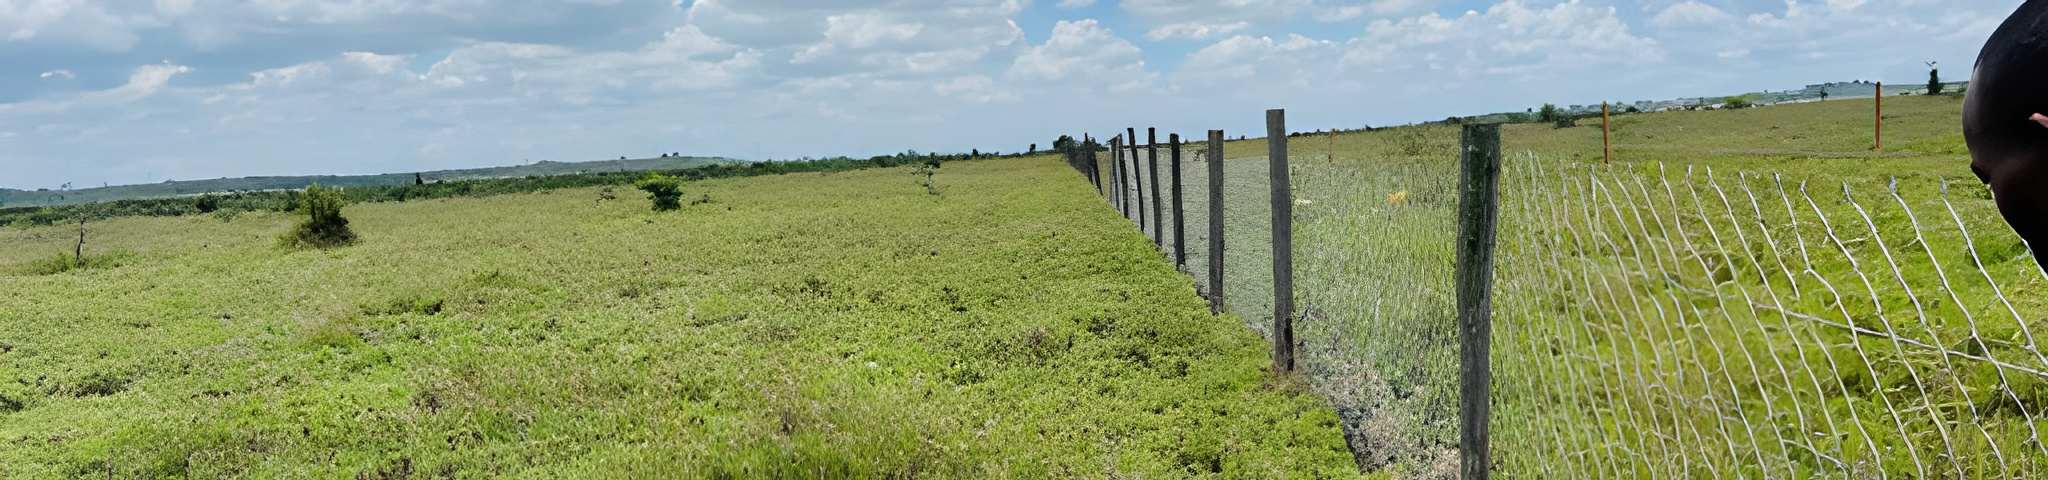
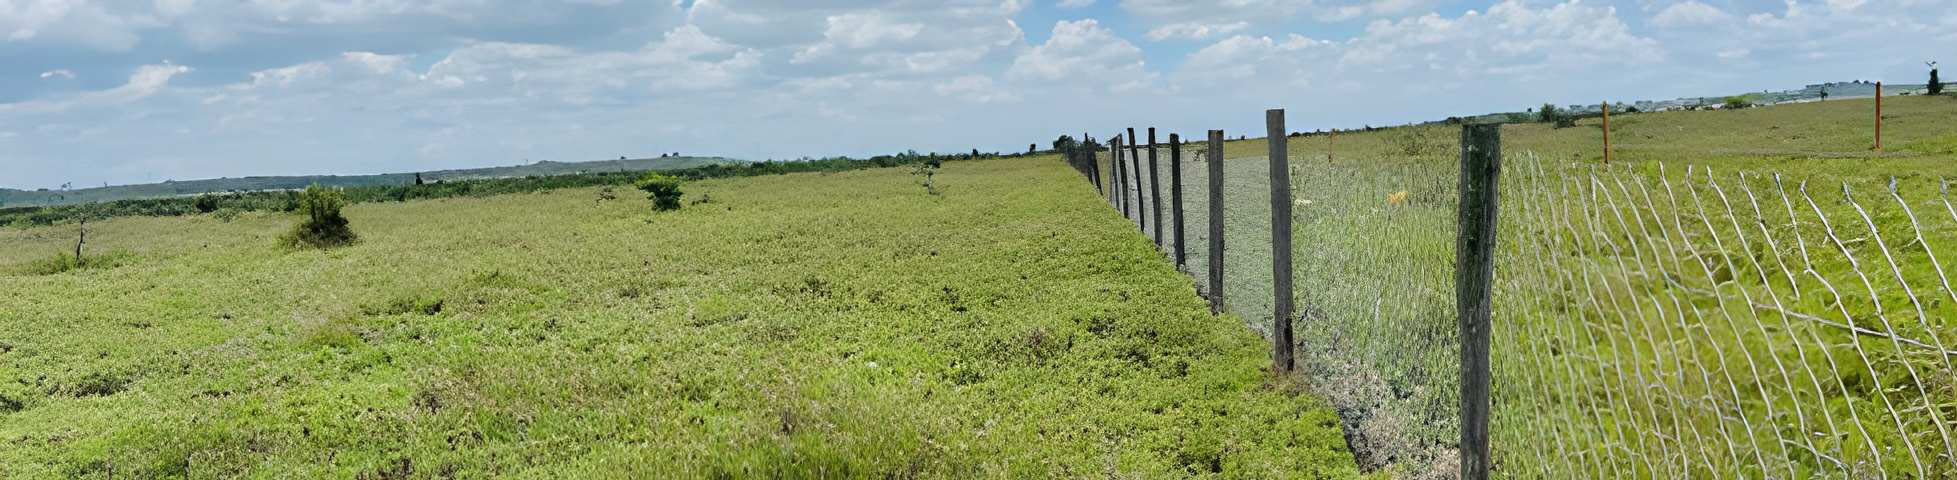
Boma hero crop  +overlay

diff --git a/app/(public)/boma/page.tsx b/app/(public)/boma/page.tsx
@@ -16,7 +16,7 @@ export default function BomaPage() {
           priority
           className="object-cover"
         />
-        <div className="absolute inset-0 bg-black/50" />
+        <div className="absolute inset-0 bg-black/1" />
         <motion.div
           initial={{ opacity: 0, y: 40 }}
           animate={{ opacity: 1, y: 0 }}
